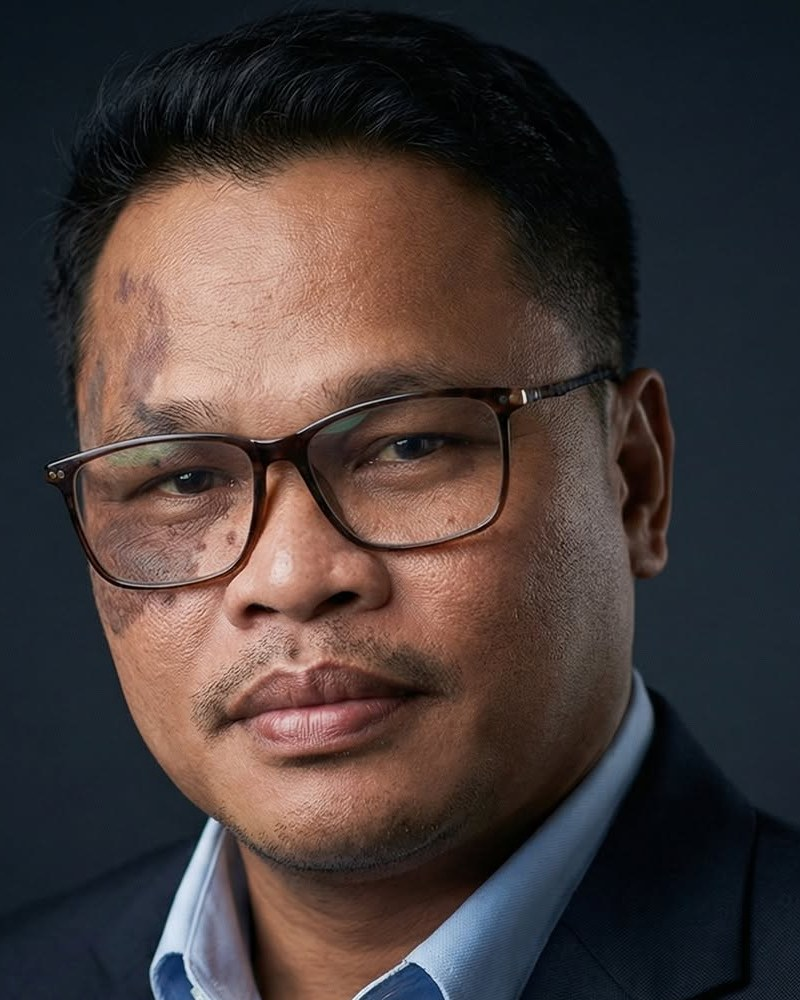
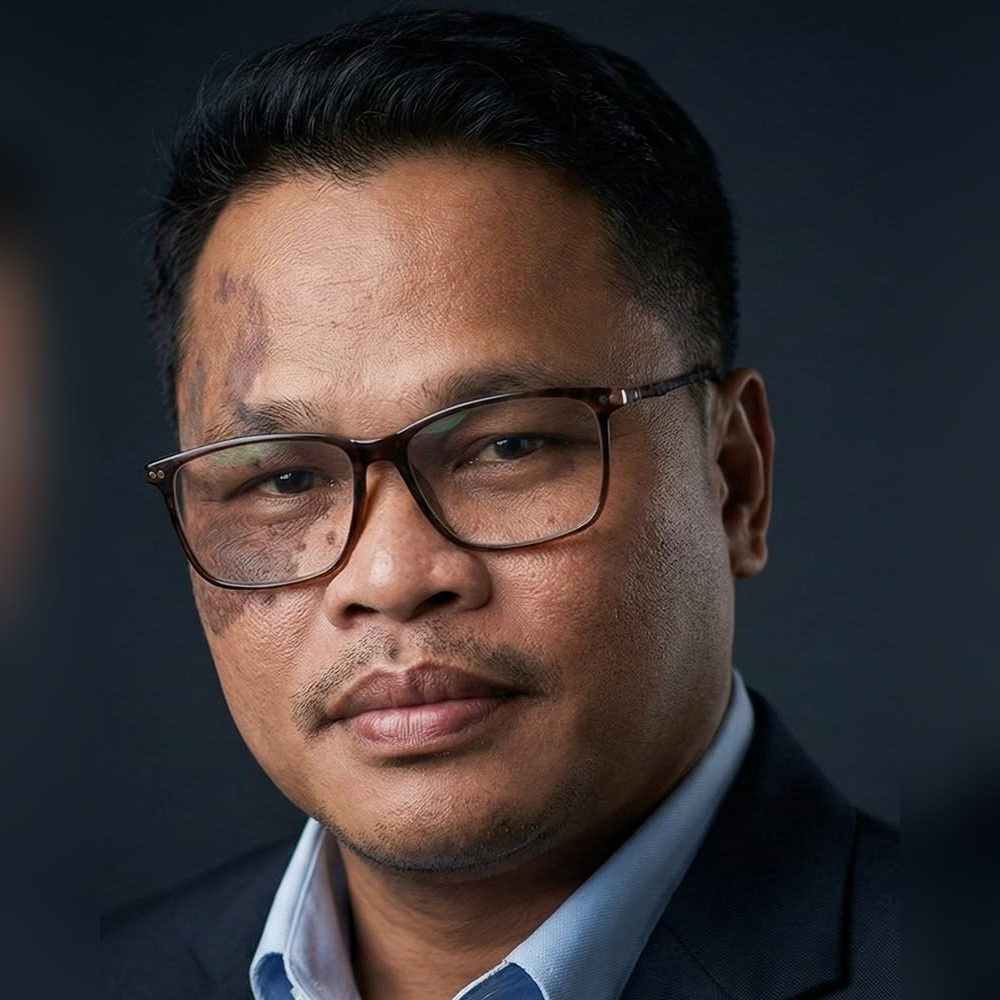
Zoom out hero photo and connect SEO with lead gen and automation in hero
* Zoom out hero photo and connect SEO with lead gen and automation in hero

* Zoom out hero photo and connect SEO with lead gen and automation in hero

diff --git a/index.html b/index.html
@@ -41,11 +41,11 @@
   <section class="hero">
     <div class="container hero-grid">
       <div class="hero-copy">
-        <p class="eyebrow">Lead Generation Specialist &bull; Marketing Automation &bull; Butuan City, Philippines</p>
+        <p class="eyebrow">Lead Generation &bull; Marketing Automation &bull; SEO &amp; Websites &bull; Butuan City, Philippines</p>
         <h1>I FIND THE <span class="green">CUSTOMERS</span><br>YOUR BUSINESS NEEDS.</h1>
-        <p class="hero-sub">I&rsquo;m George Fernando. I research your market, find the real
-          decision-makers, verify every contact, and automate the whole process, so your team
-          talks to real people, not dead lists.</p>
+        <p class="hero-sub">I&rsquo;m George Fernando. I bring the traffic in with websites and SEO,
+          find the real decision-makers, verify every contact, and automate the follow-up
+          with n8n and AI &mdash; so your team talks to real people, not dead lists.</p>
         <div class="hero-buttons">
           <a href="#services" class="btn btn-dark">See How I Help &rarr;</a>
           <a href="assets/george-fernando-resume.pdf" class="btn btn-outline" download>Download CV &#8681;</a>
@@ -97,8 +97,9 @@
           <p class="eyebrow">What I Do</p>
           <h2>HOW I HELP<br>YOUR <span class="green">BUSINESS.</span></h2>
         </div>
-        <p class="section-head-text">No vague promises. Four clear services, one goal: a pipeline
-          full of real people who can actually buy from you.</p>
+        <p class="section-head-text">No vague promises. SEO brings the traffic in, research finds the
+          buyers, and automation follows up. Four services, one pipeline full of real people
+          who can actually buy from you.</p>
       </div>
 
       <div class="cards-4">

diff --git a/styles.css b/styles.css
@@ -168,7 +168,7 @@ h2 { font-size: clamp(34px, 5vw, 56px); text-transform: uppercase; }
   margin: 0 auto;
   border-radius: 50%;
   overflow: hidden;
-  background: var(--green);
+  background: #1b252f;
   box-shadow: var(--shadow);
 }
 .photo-frame img {
